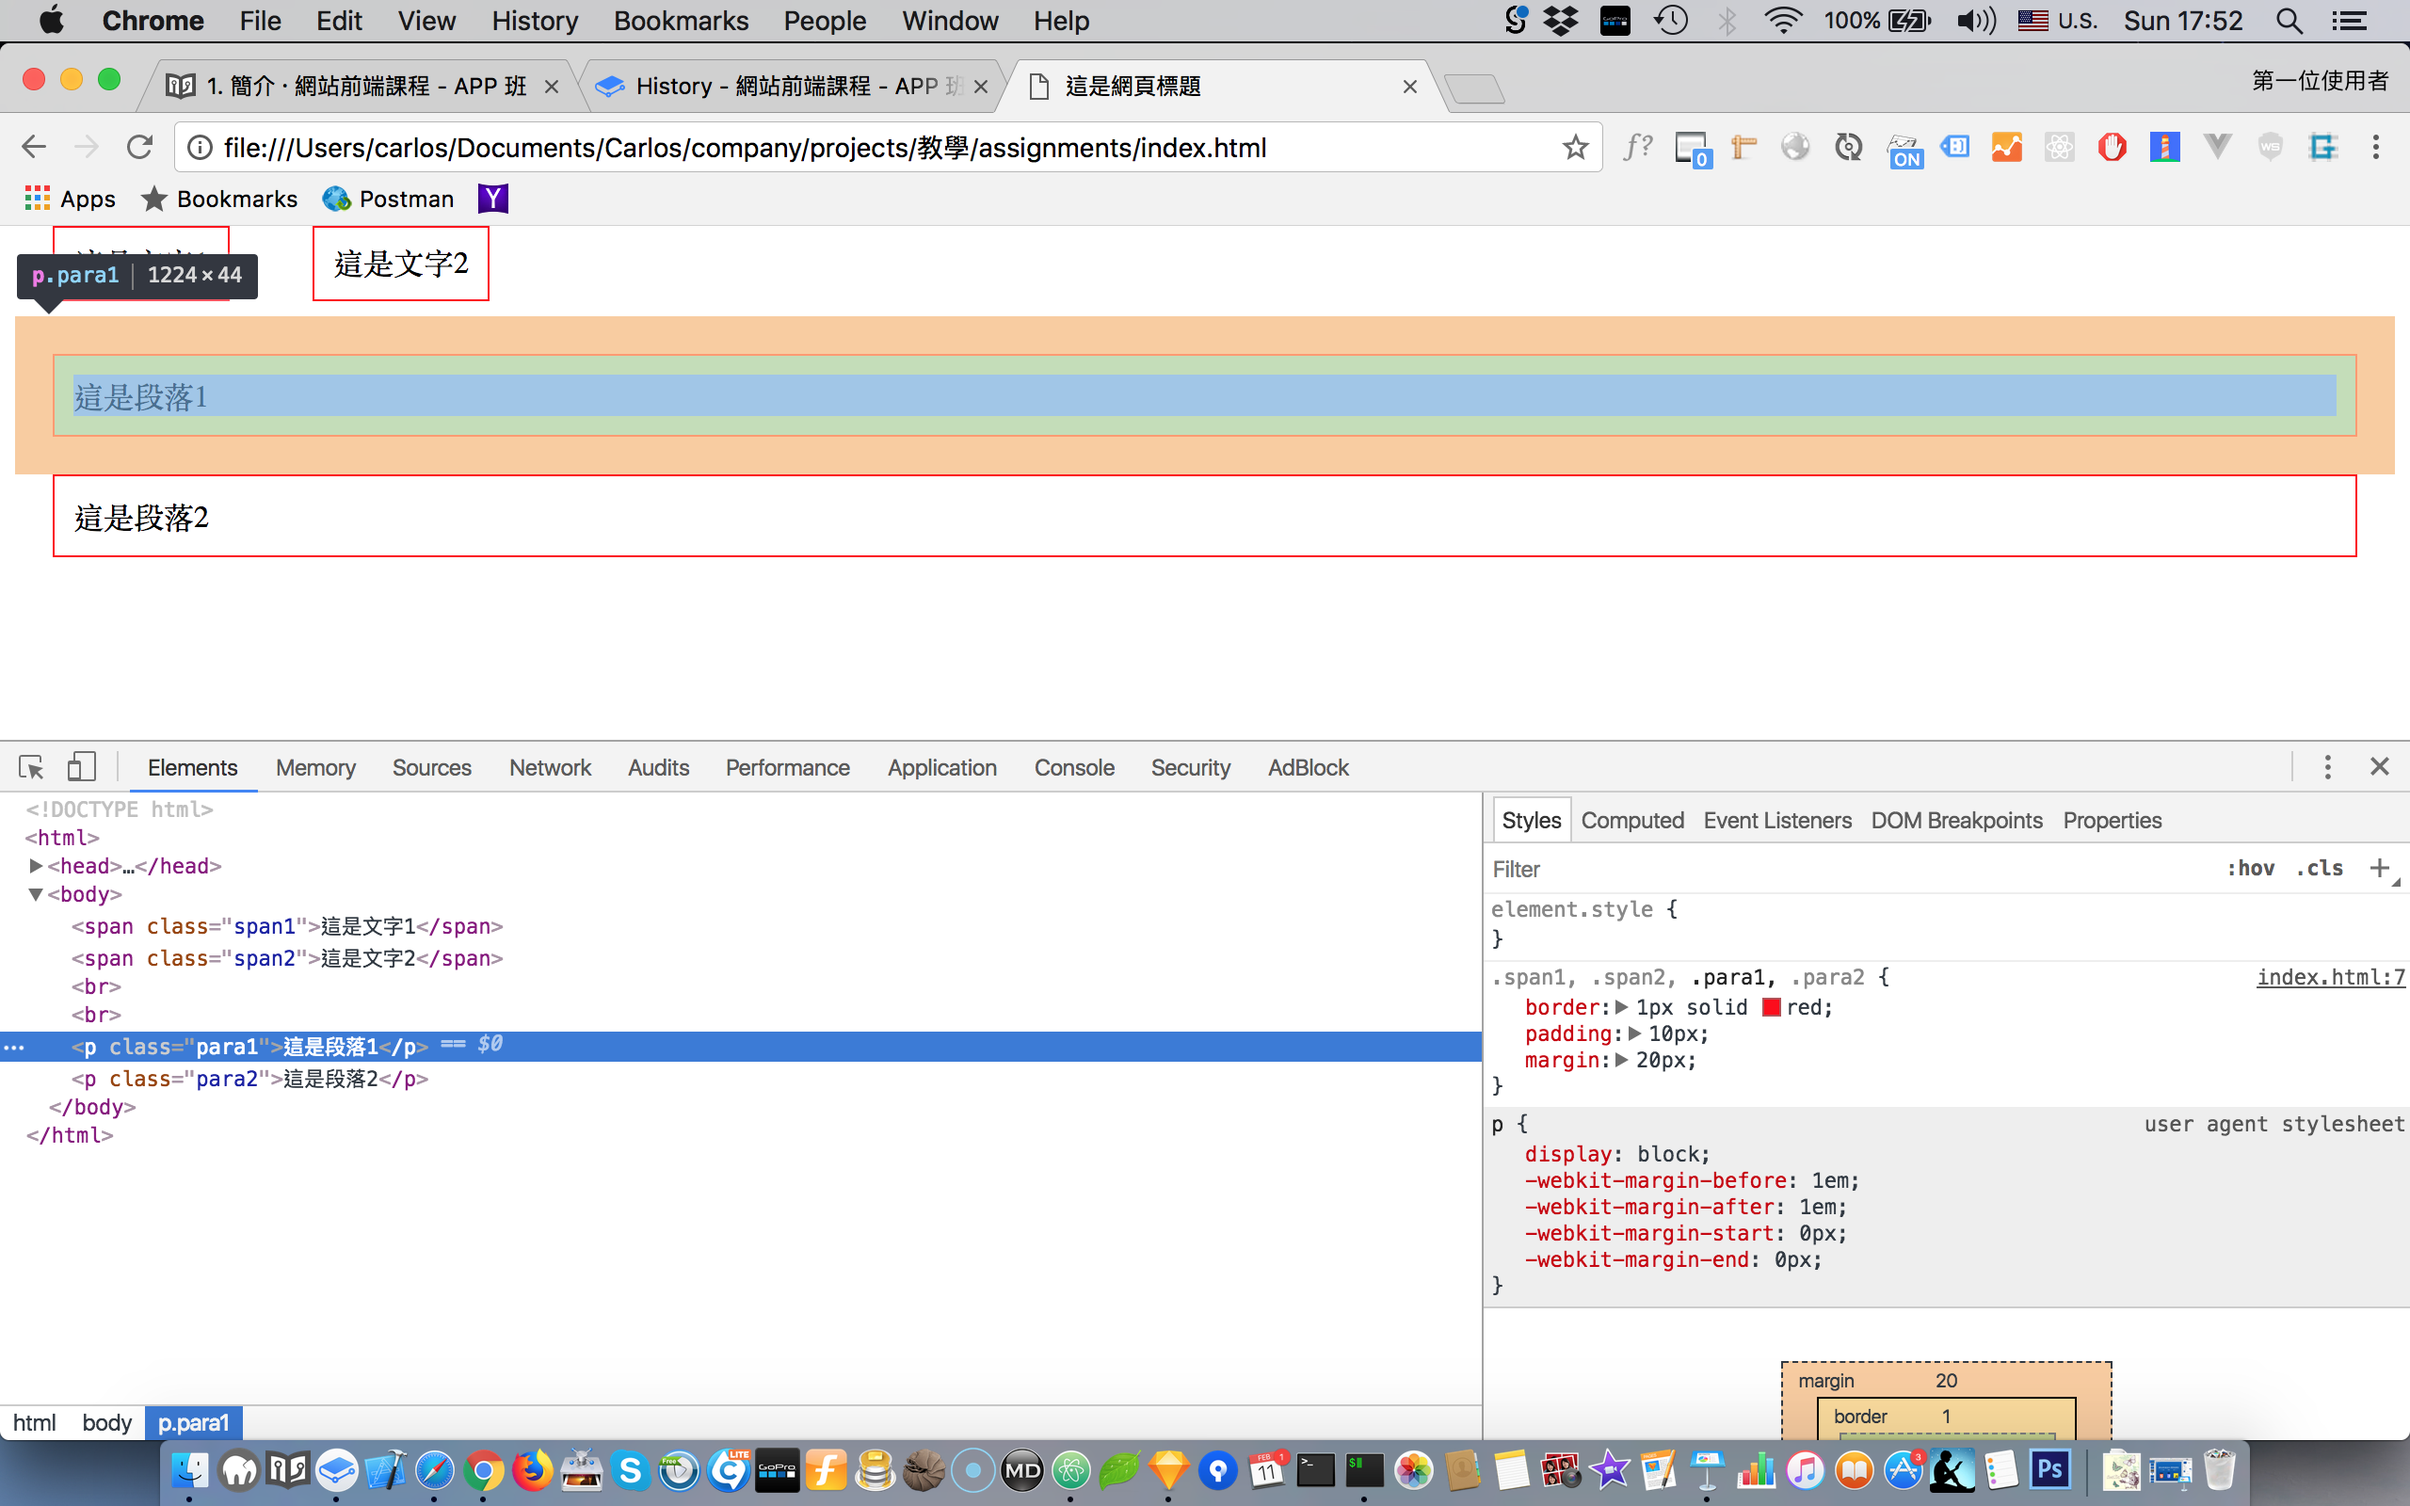
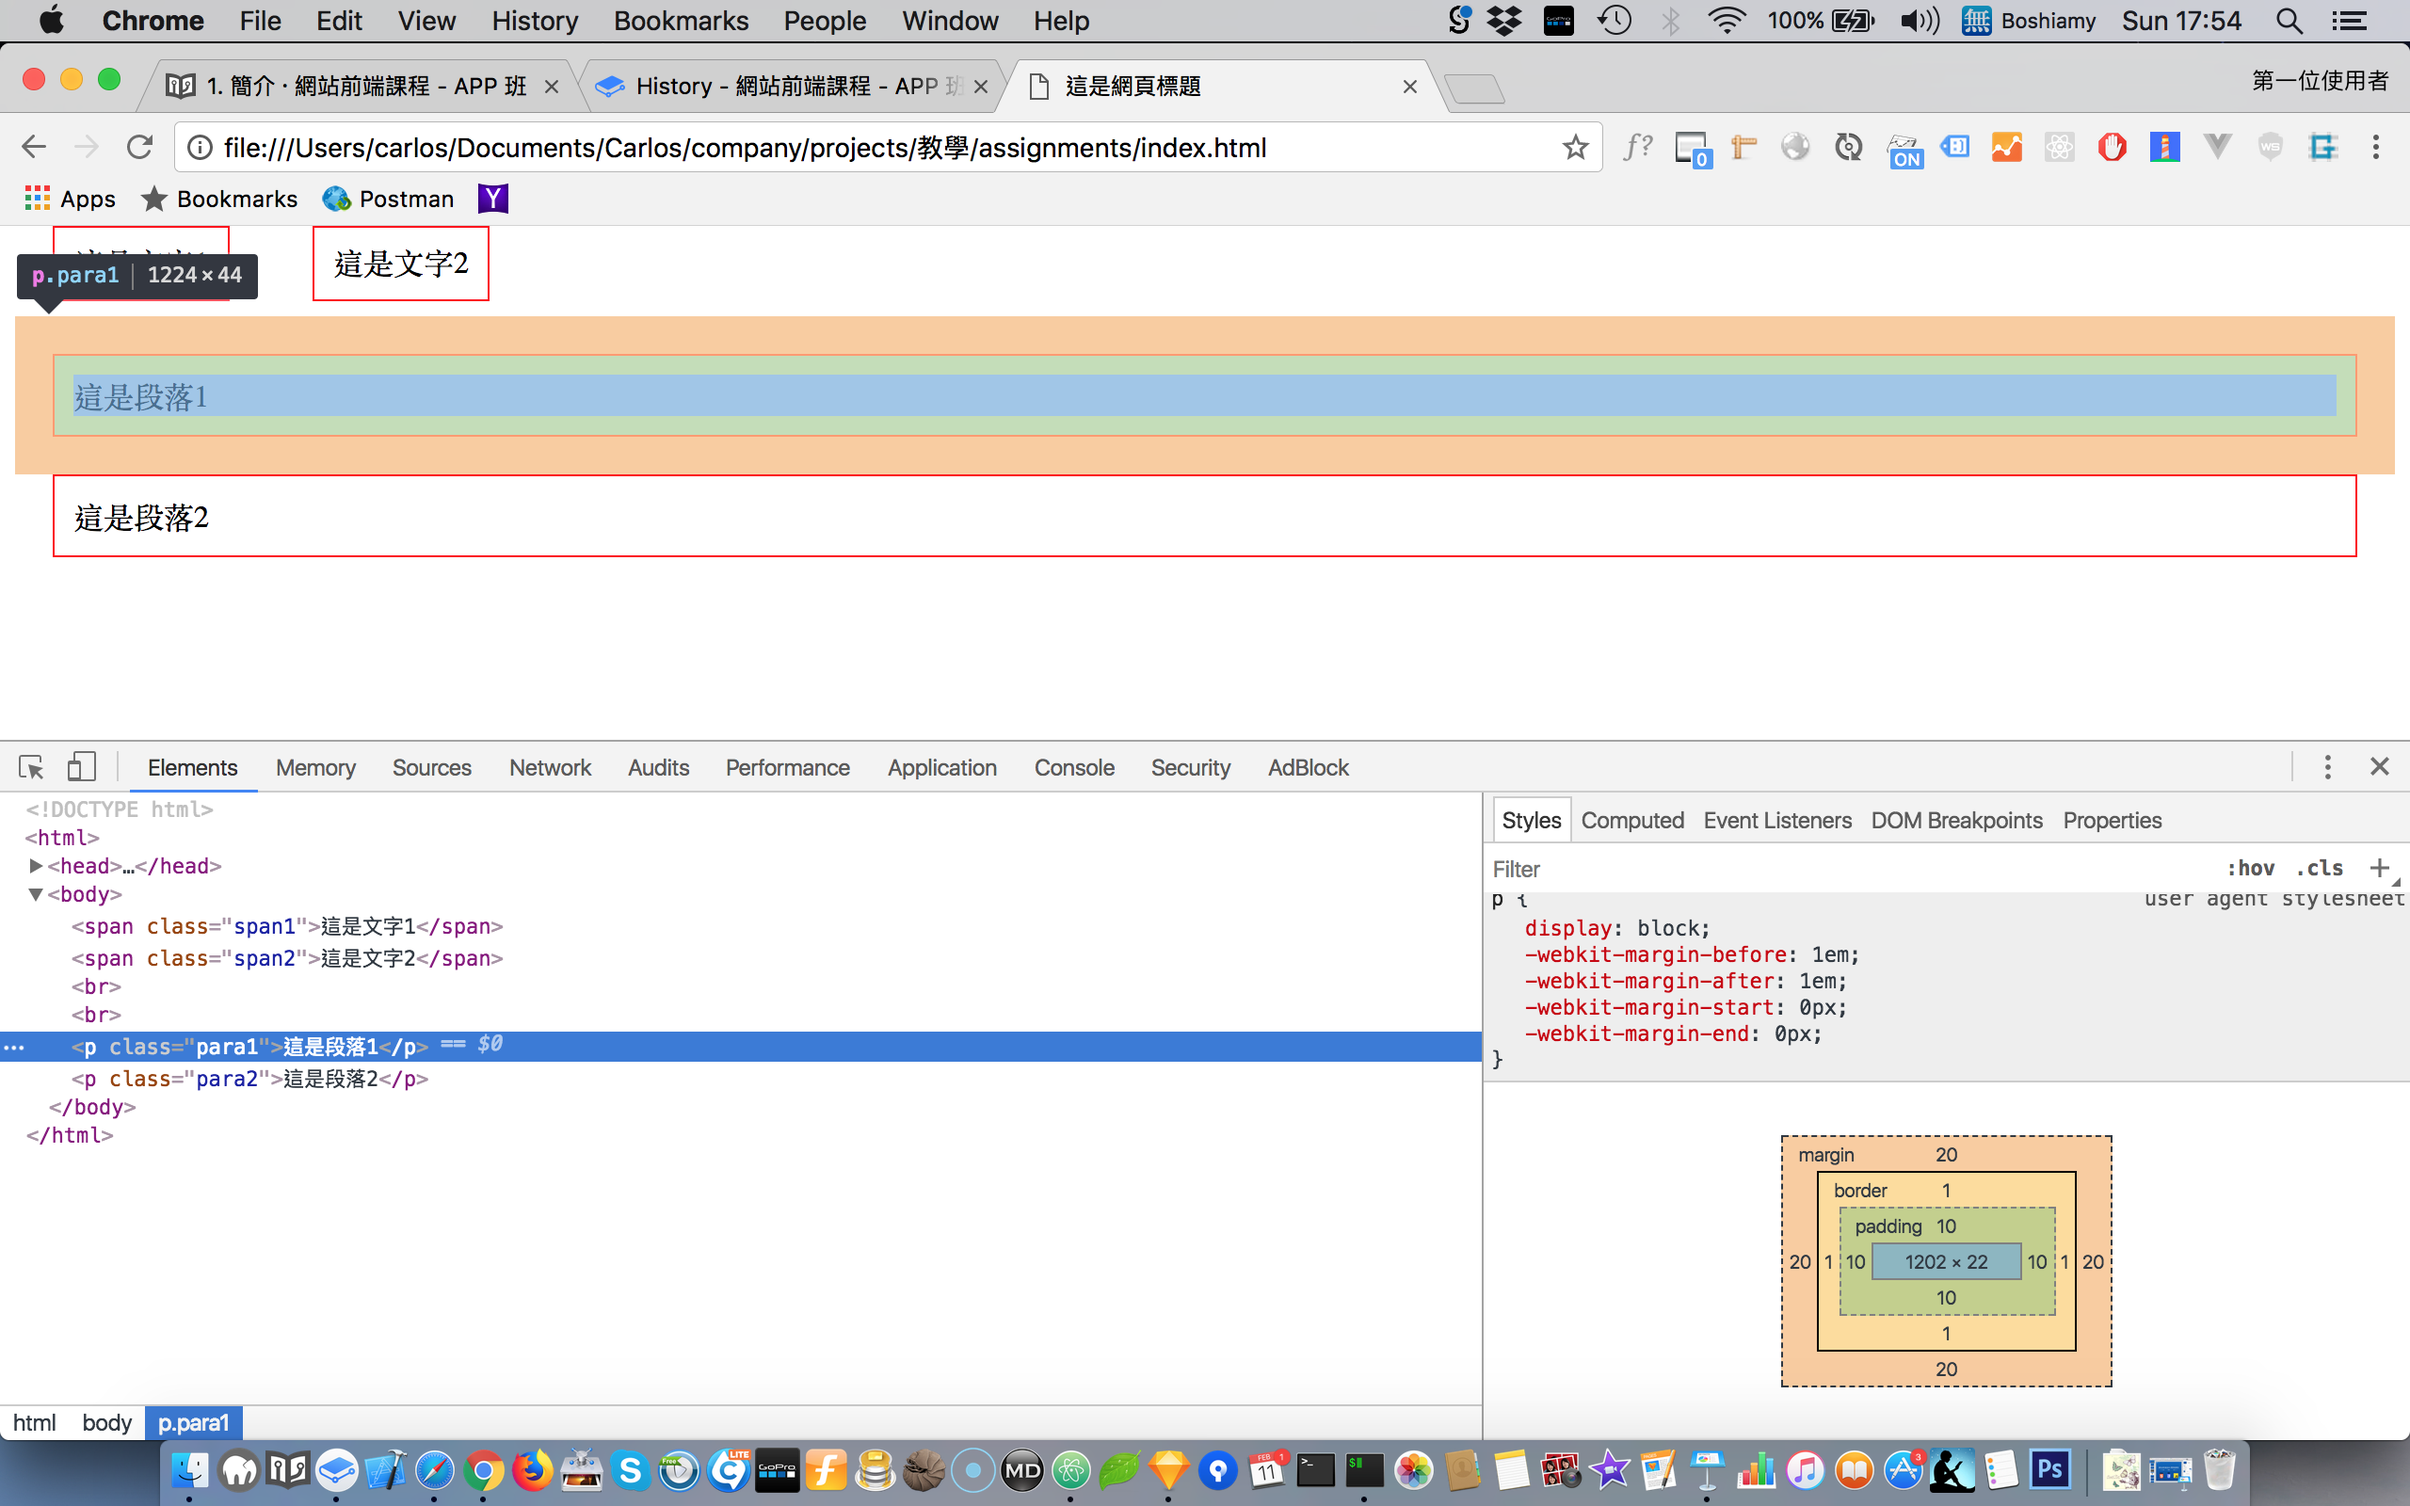
Updates assets/box_model_example4.png
Auto commit by GitBook Editor

diff --git a/css/boxmodel.md b/css/boxmodel.md
@@ -76,7 +76,7 @@ CSS：
 
 ## 練習
 
-請使用以下的程式在瀏覽器中執行，並使用 console 來查看 box model 的各數值。
+請使用以下的程式在瀏覽器中執行，並學會使用 console 來查看 box model 的各數值。
 
 ```html
 <!doctype html>
